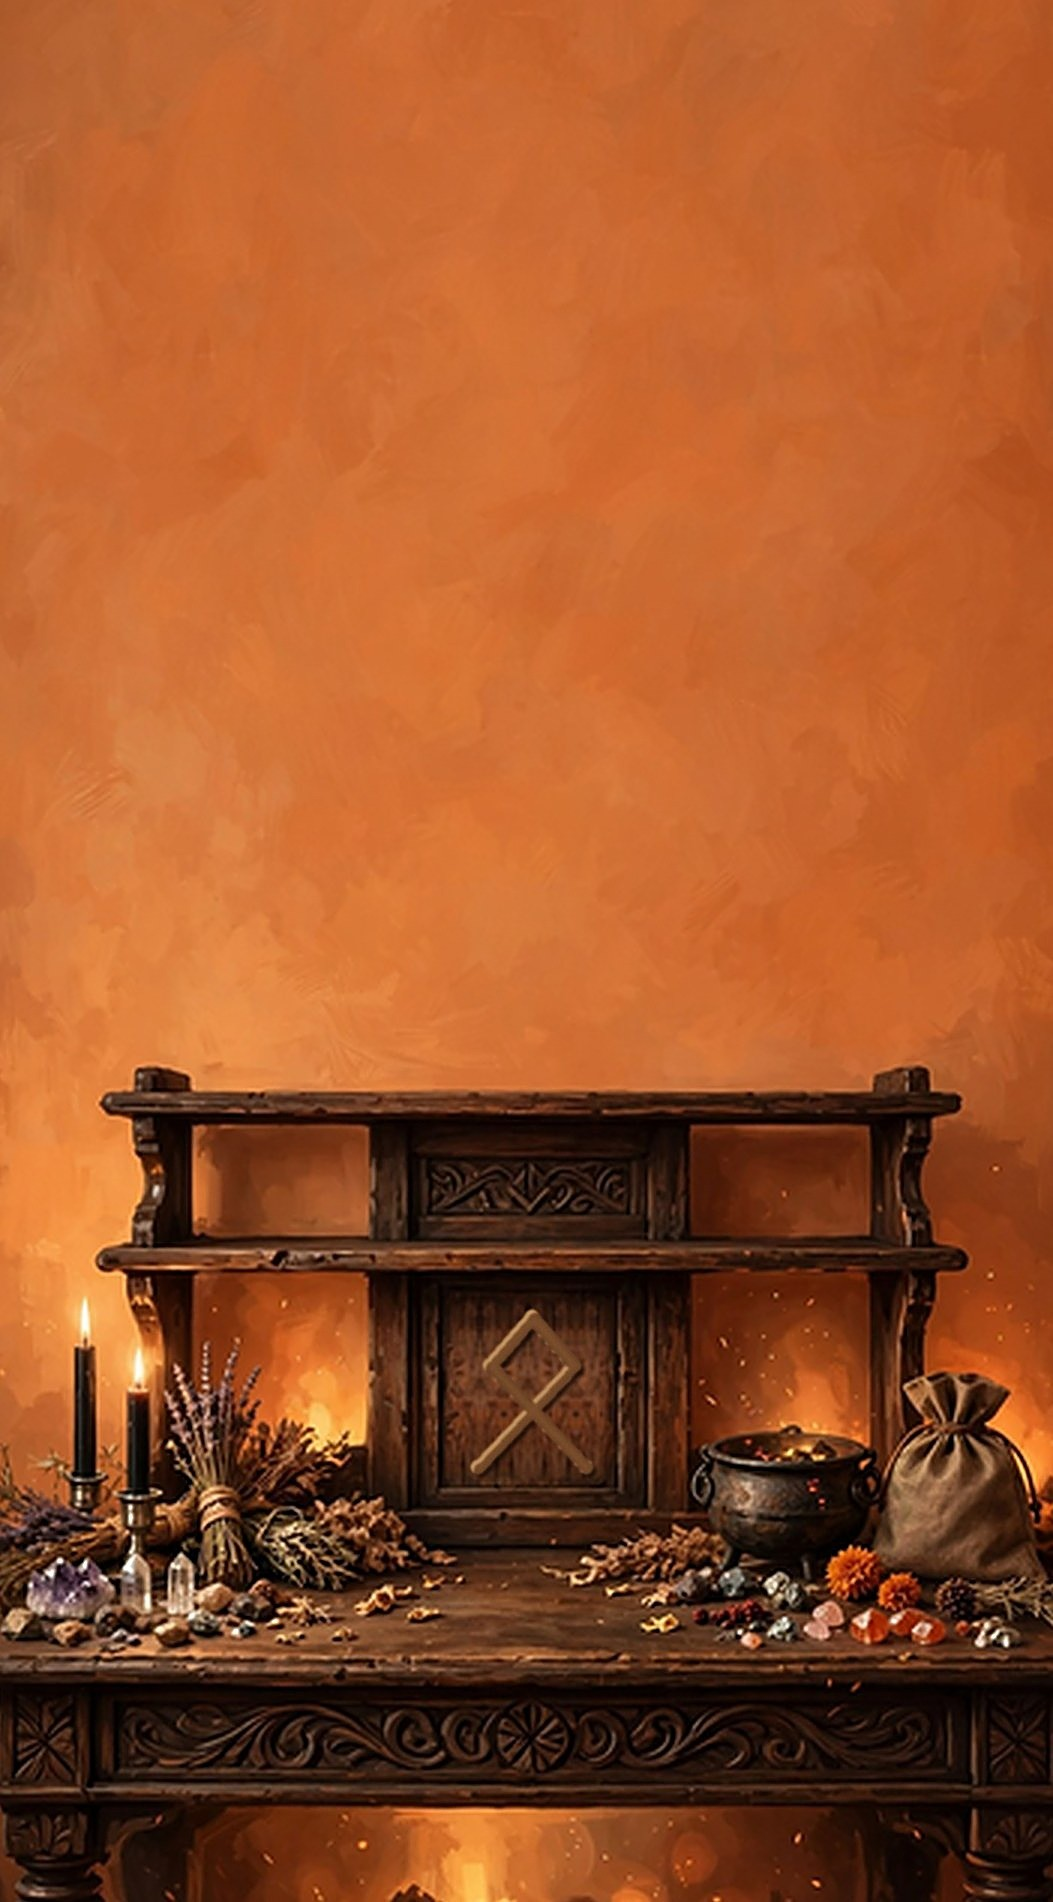
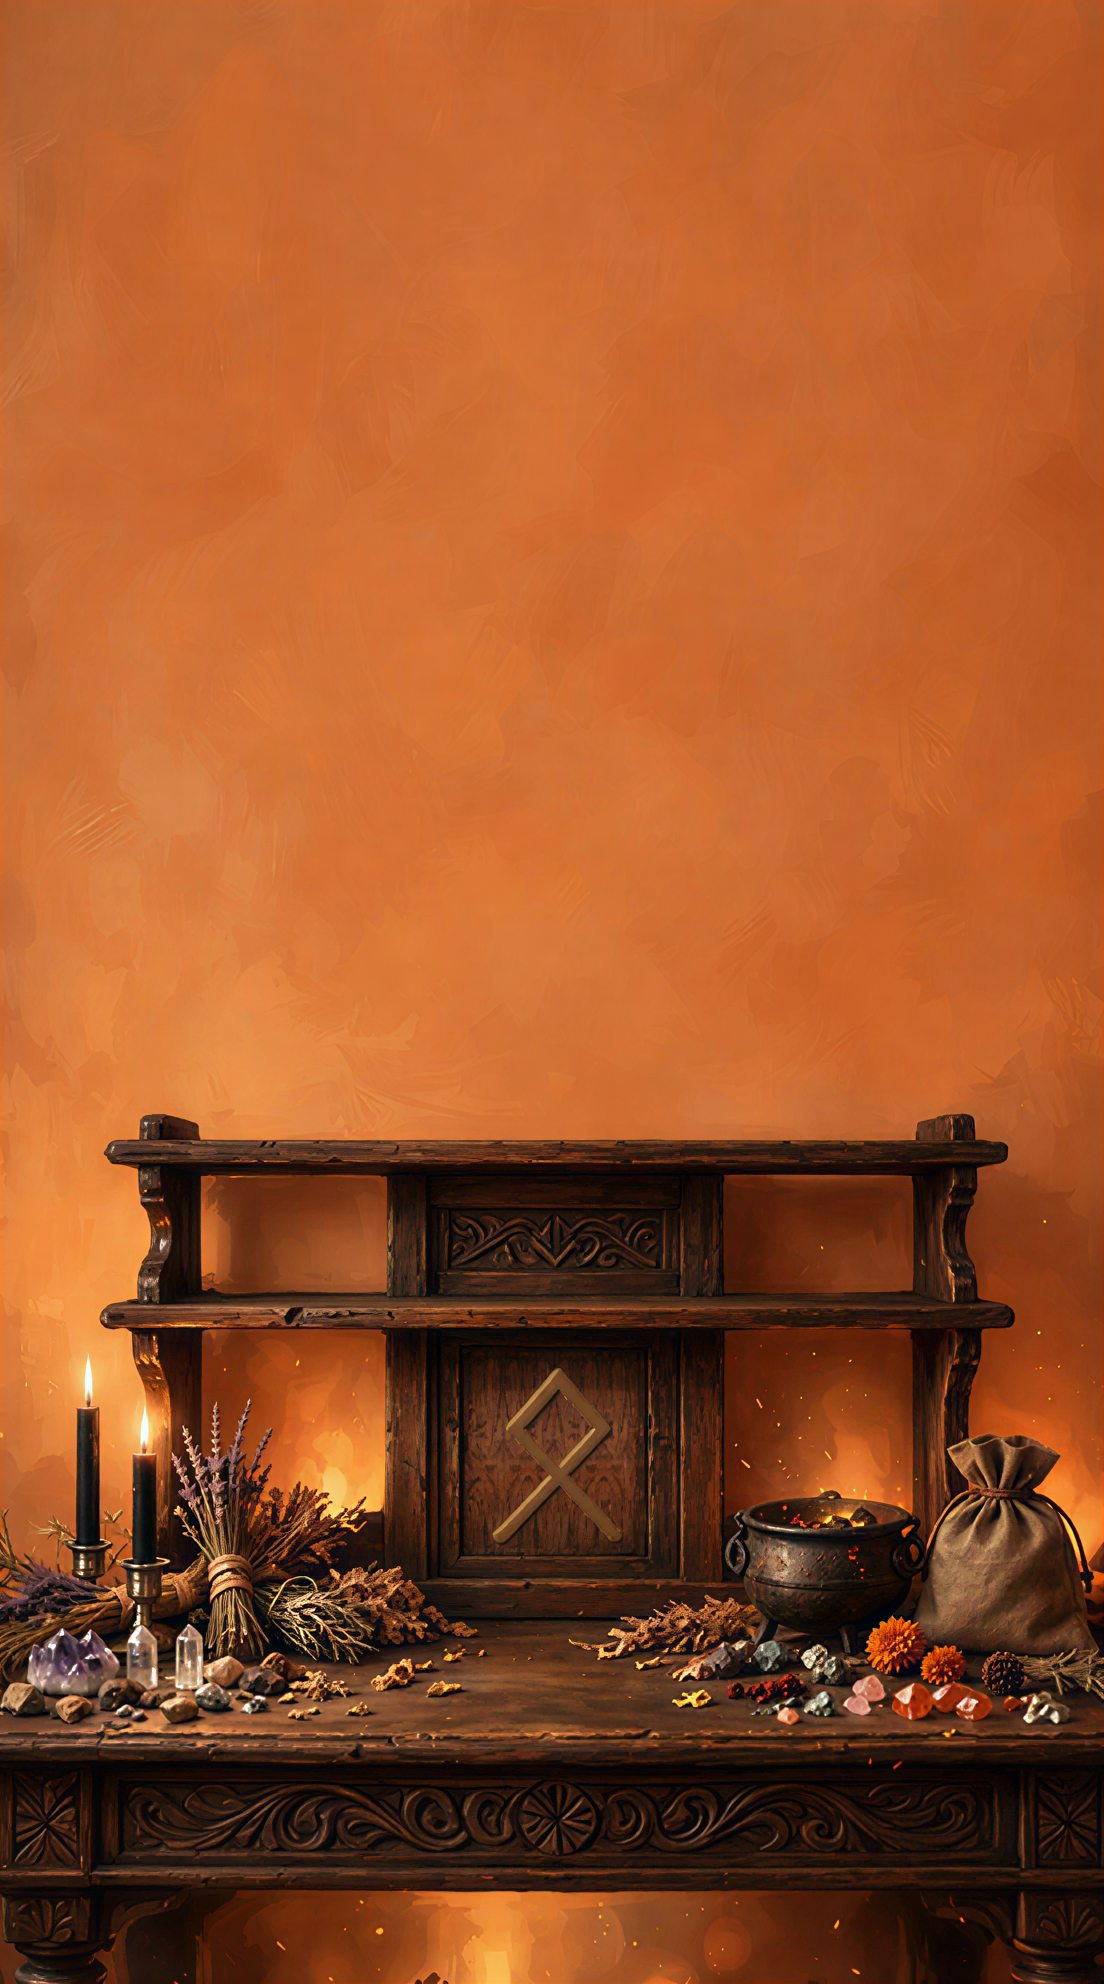
Sharper Altar background

diff --git a/sw.js b/sw.js
@@ -1,5 +1,5 @@
 // Hearthbook offline cache (generated by build_app.py)
-const CACHE = "hearthbook-81e2d580b9";
+const CACHE = "hearthbook-81e2d580ba";
 const FILES = ["./", "index.html", "manifest.webmanifest", "icons/icon-192.png", "icons/icon-512.png", "icons/maskable-512.png", "icons/apple-180.png", "altar-bg.jpg", "astrology-bg.jpg", "bookcase-bg.jpg", "crystal-bg.jpg", "crystal-flameL.png", "crystal-flameR.png", "divination-bg.jpg", "hearth-bg.jpg", "hearth-cauldron.png", "kitchen-bg.jpg", "kitchen-herb0.png", "kitchen-herb1.png", "kitchen-herb2.png", "kitchen-herb3.png", "kitchen-herb4.png", "tarot/c01.jpg", "tarot/c02.jpg", "tarot/c03.jpg", "tarot/c04.jpg", "tarot/c05.jpg", "tarot/c06.jpg", "tarot/c07.jpg", "tarot/c08.jpg", "tarot/c09.jpg", "tarot/c10.jpg", "tarot/c11.jpg", "tarot/c12.jpg", "tarot/c13.jpg", "tarot/c14.jpg", "tarot/m00.jpg", "tarot/m01.jpg", "tarot/m02.jpg", "tarot/m03.jpg", "tarot/m04.jpg", "tarot/m05.jpg", "tarot/m06.jpg", "tarot/m07.jpg", "tarot/m08.jpg", "tarot/m09.jpg", "tarot/m10.jpg", "tarot/m11.jpg", "tarot/m12.jpg", "tarot/m13.jpg", "tarot/m14.jpg", "tarot/m15.jpg", "tarot/m16.jpg", "tarot/m17.jpg", "tarot/m18.jpg", "tarot/m19.jpg", "tarot/m20.jpg", "tarot/m21.jpg", "tarot/p01.jpg", "tarot/p02.jpg", "tarot/p03.jpg", "tarot/p04.jpg", "tarot/p05.jpg", "tarot/p06.jpg", "tarot/p07.jpg", "tarot/p08.jpg", "tarot/p09.jpg", "tarot/p10.jpg", "tarot/p11.jpg", "tarot/p12.jpg", "tarot/p13.jpg", "tarot/p14.jpg", "tarot/s01.jpg", "tarot/s02.jpg", "tarot/s03.jpg", "tarot/s04.jpg", "tarot/s05.jpg", "tarot/s06.jpg", "tarot/s07.jpg", "tarot/s08.jpg", "tarot/s09.jpg", "tarot/s10.jpg", "tarot/s11.jpg", "tarot/s12.jpg", "tarot/s13.jpg", "tarot/s14.jpg", "tarot/w01.jpg", "tarot/w02.jpg", "tarot/w03.jpg", "tarot/w04.jpg", "tarot/w05.jpg", "tarot/w06.jpg", "tarot/w07.jpg", "tarot/w08.jpg", "tarot/w09.jpg", "tarot/w10.jpg", "tarot/w11.jpg", "tarot/w12.jpg", "tarot/w13.jpg", "tarot/w14.jpg"];
 self.addEventListener("install", e => { e.waitUntil(caches.open(CACHE).then(c => c.addAll(FILES)).then(() => self.skipWaiting())); });
 self.addEventListener("activate", e => { e.waitUntil(caches.keys().then(ks => Promise.all(ks.filter(k => k !== CACHE).map(k => caches.delete(k)))).then(() => self.clients.claim())); });
